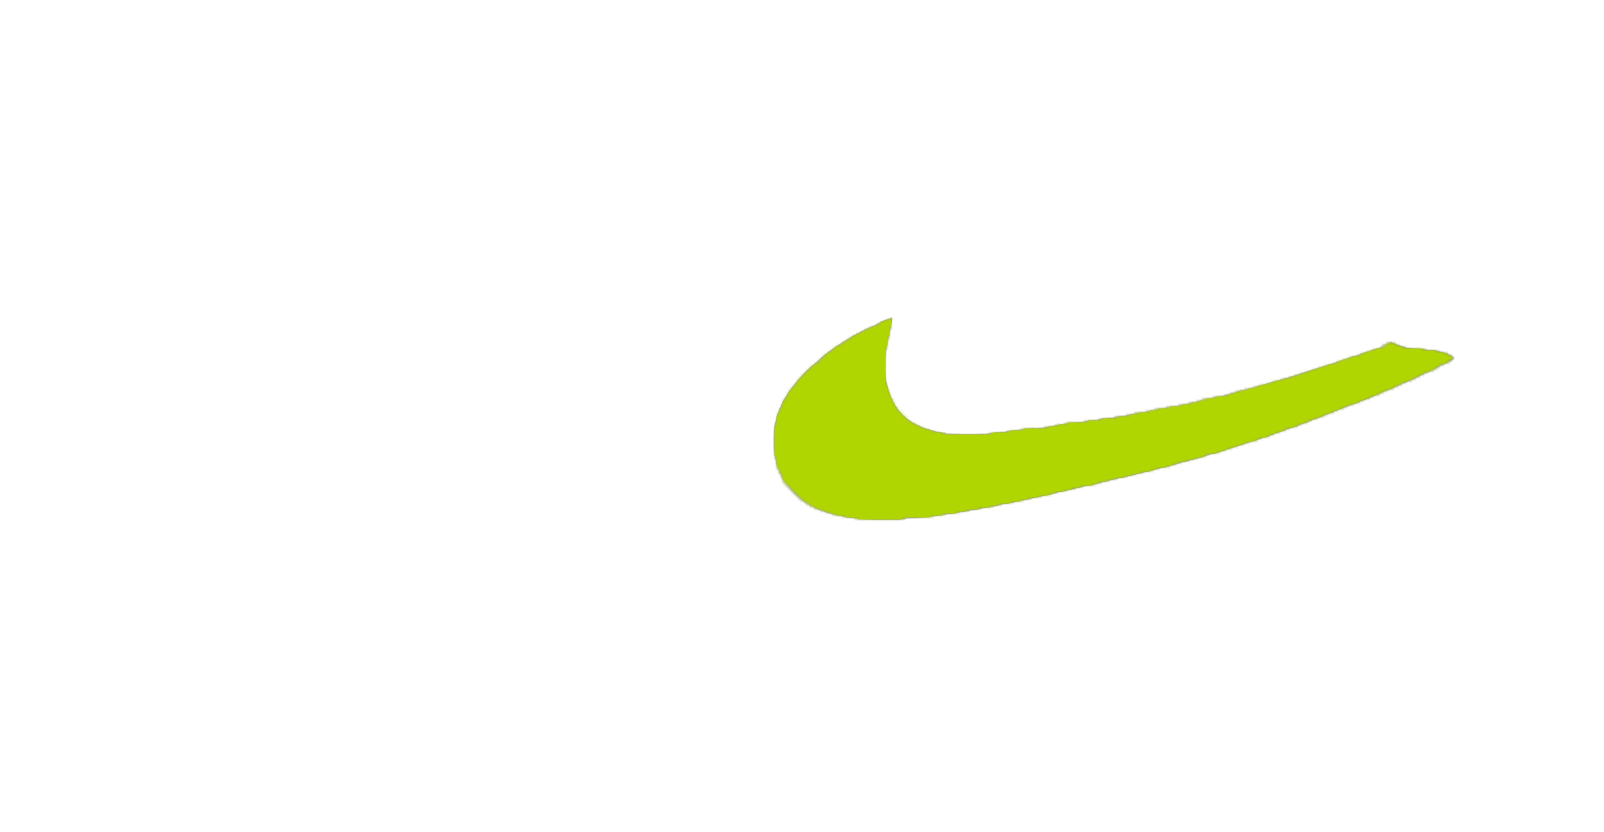
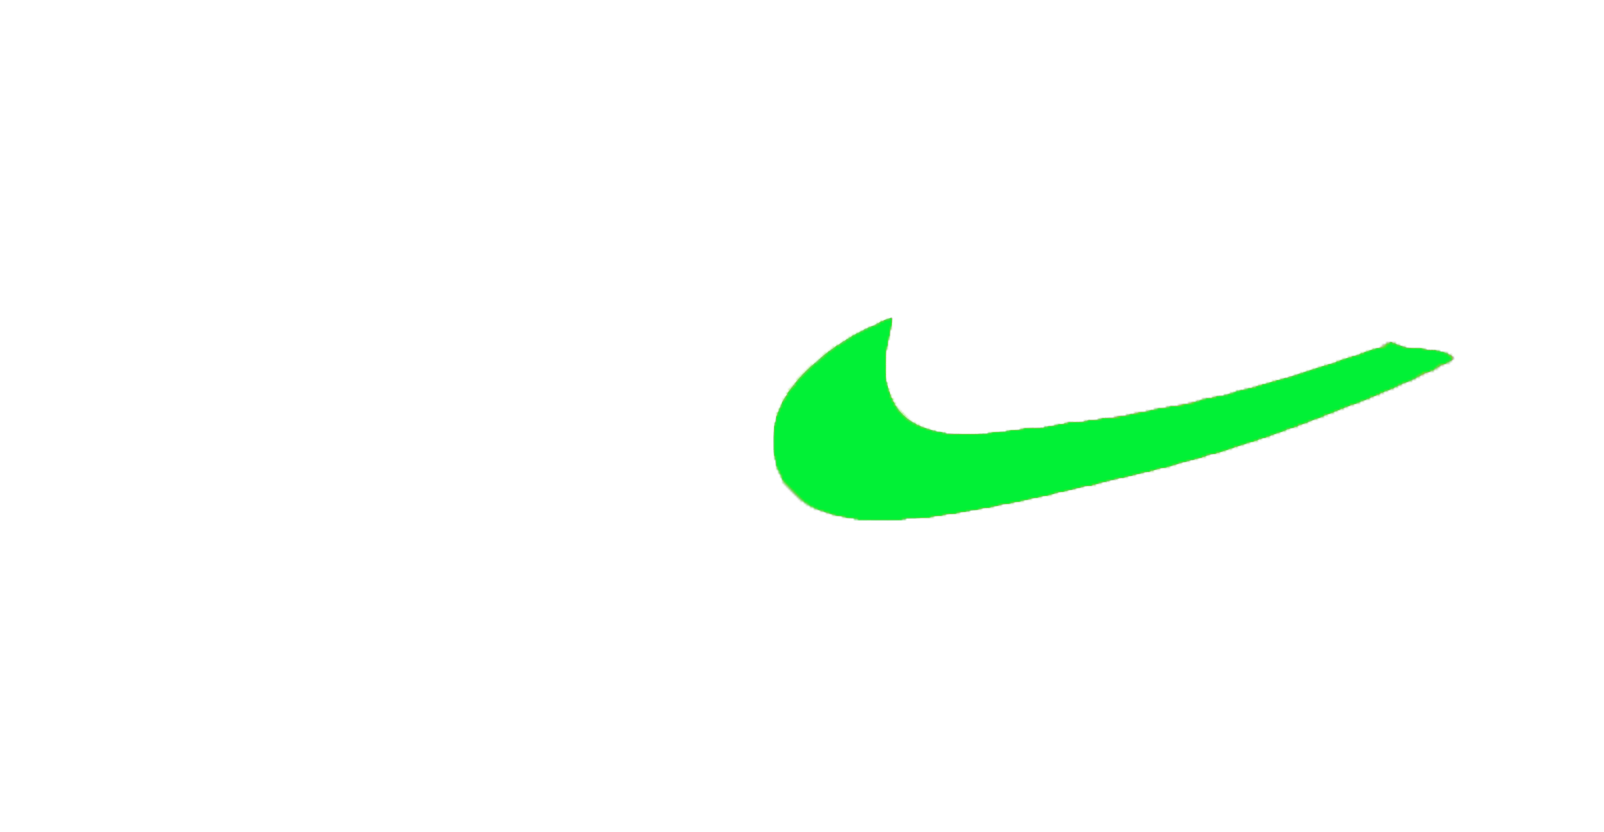
changed different versions to also be different colors

Changed region(s): [[0.4676, 0.375, 0.904, 0.625]]

diff --git a/index.html b/index.html
@@ -21,9 +21,15 @@
       </div>
       <div class="main-header-right-container">
         <div class="main-header-right">
-          <div class="header-button">PNG version</div>
-          <div class="header-button">SVG version</div>
-          <div class="header-button">Bezier version</div>
+          <div class="header-button" style="border-color: #02f52c">
+            PNG version
+          </div>
+          <div class="header-button" style="border-color: #00d79b">
+            SVG version
+          </div>
+          <div class="header-button" style="border-color: #fcaa26">
+            Bezier version
+          </div>
         </div>
       </div>
     </div>
@@ -83,7 +89,11 @@
           </div>
           <div class="main-body-container-right">
             <div class="main-body-container-right-imgcon">
-              <img class="half-width-img" src="img/nike-shoe.png" alt="image" />
+              <img
+                class="half-width-img"
+                src="img/nike-shoe-green.png"
+                alt="image"
+              />
               <img
                 class="half-width-img-overlay"
                 src="img/nike-overlay.png"
@@ -95,9 +105,13 @@
       </div>
       <div class="main-body-container">
         <div class="main-body-container main-body-container-box">
-          <div class="main-body-container-right">
+          <div class="main-body-container-left">
             <div class="main-body-container-right-imgcon">
-              <img class="half-width-img" src="img/nike-shoe.png" alt="image" />
+              <img
+                class="half-width-img"
+                src="img/nike-shoe-blue.png"
+                alt="image"
+              />
               <img
                 class="half-width-img-overlay-svg"
                 src="img/nike-overlay.svg"
@@ -105,9 +119,9 @@
               />
             </div>
           </div>
-          <div class="main-body-container-left">
+          <div class="main-body-container-right">
             <div class="main-body-container-textbox">
-              <div class="main-body-container-left-text">
+              <div class="main-body-container-right-text">
                 <h1>SVG version</h1>
                 Scalable Vector Graphics is an XML-based vector image format for
                 defining two-dimensional graphics, having support for
@@ -133,7 +147,7 @@
               <img
                 id="half-width-img-bezier"
                 class="half-width-img"
-                src="img/nike-shoe.png"
+                src="img/nike-shoe-orange.png"
                 alt="image"
               />
               <canvas

diff --git a/style/main.css b/style/main.css
@@ -2,7 +2,7 @@ body {
   margin: 0;
   padding: 0;
   font-family: "Roboto Flex", sans-serif;
-  background-color: rgb(64, 65, 65);
+  background-color: rgb(78, 78, 78);
 }
 
 .main-header {
@@ -188,6 +188,13 @@ body {
   font-weight: 500;
 }
 
+.main-body-container-right-text {
+  color: rgb(228, 228, 228);
+  padding: 0 10% 0 30%;
+  font-size: 22px;
+  font-weight: 500;
+}
+
 .main-body-container-right-imgcon {
   width: 480px;
   background-color: #f6f6f6;
@@ -212,16 +219,16 @@ body {
 
 .half-width-img-overlay-svg {
   position: absolute;
-  width: 38%;
-  top: 43.75%;
-  left: 48.5%;
+  width: 38.8%;
+  top: 43.62%;
+  left: 48.4%;
   opacity: 70%;
 }
 
 .half-width-img-overlay-canvas {
   margin: 20% 5%;
   position: absolute;
-  opacity: 70%;
+  opacity: 75%;
   transform: scale(83%);
 }
 

diff --git a/js/script.js b/js/script.js
@@ -51,6 +51,6 @@ function drawShape(ctx, xoff, yoff) {
     329 + xoff,
     296 + yoff
   );
-  ctx.fillStyle = "#afd600";
+  ctx.fillStyle = "#fcaa26";
   ctx.fill();
 }
